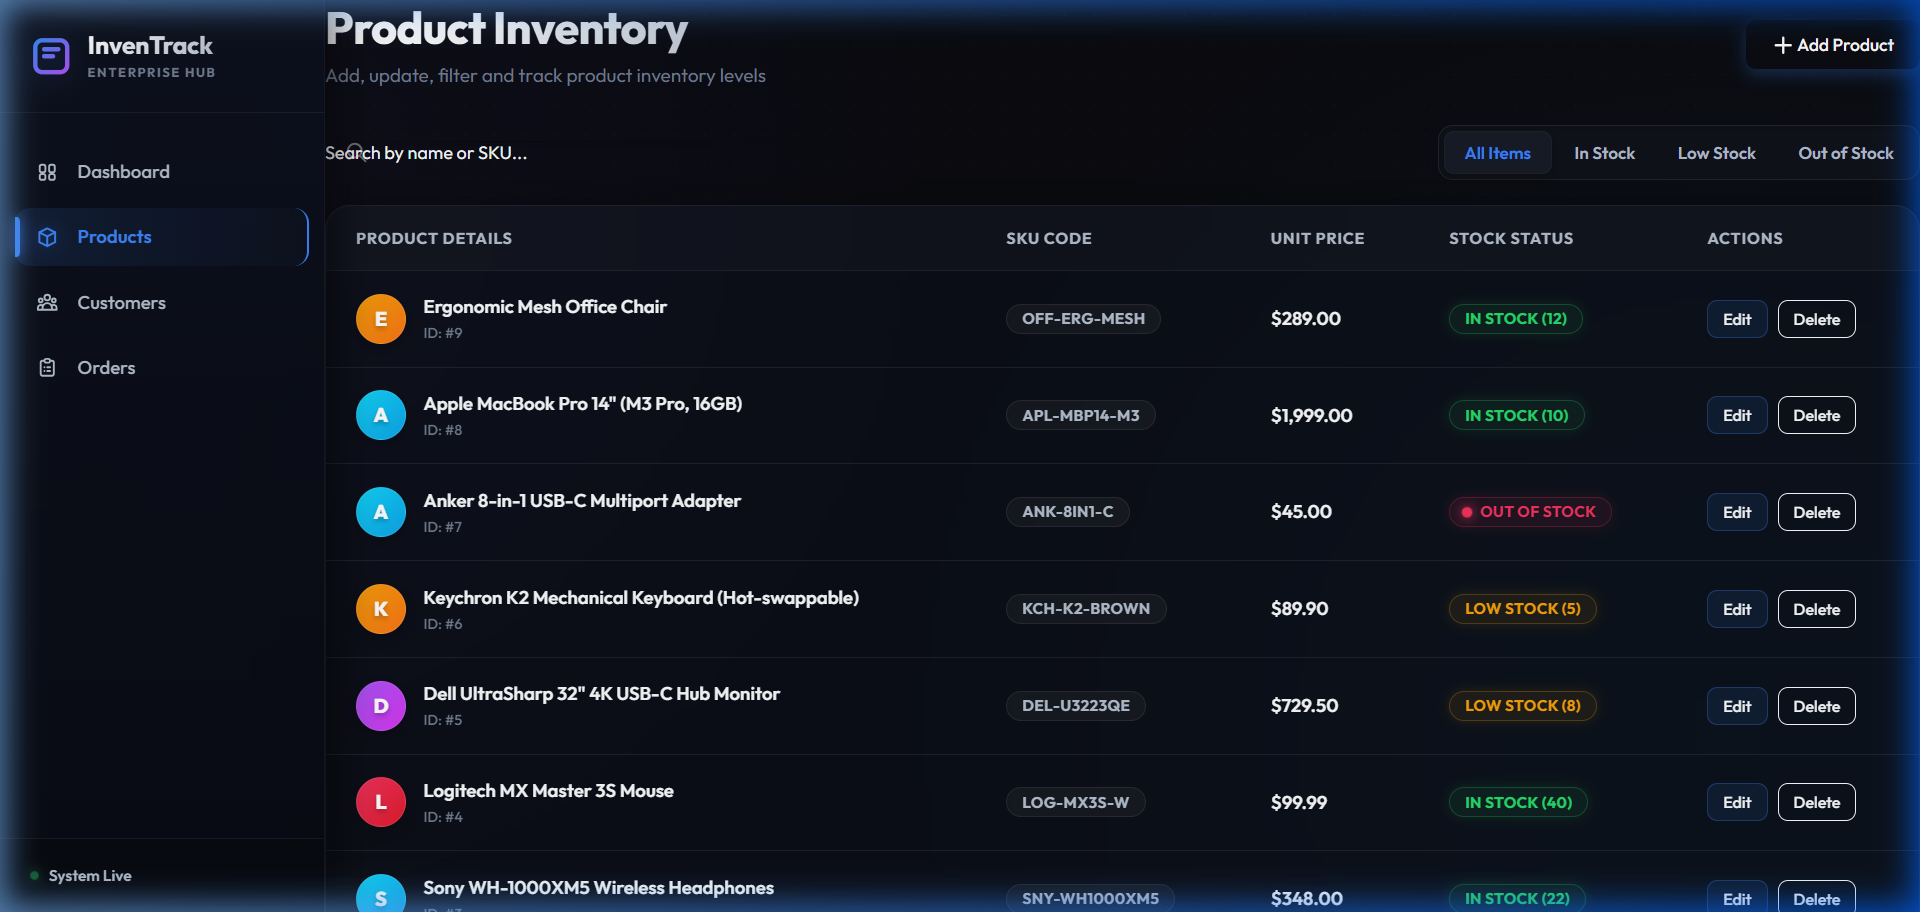
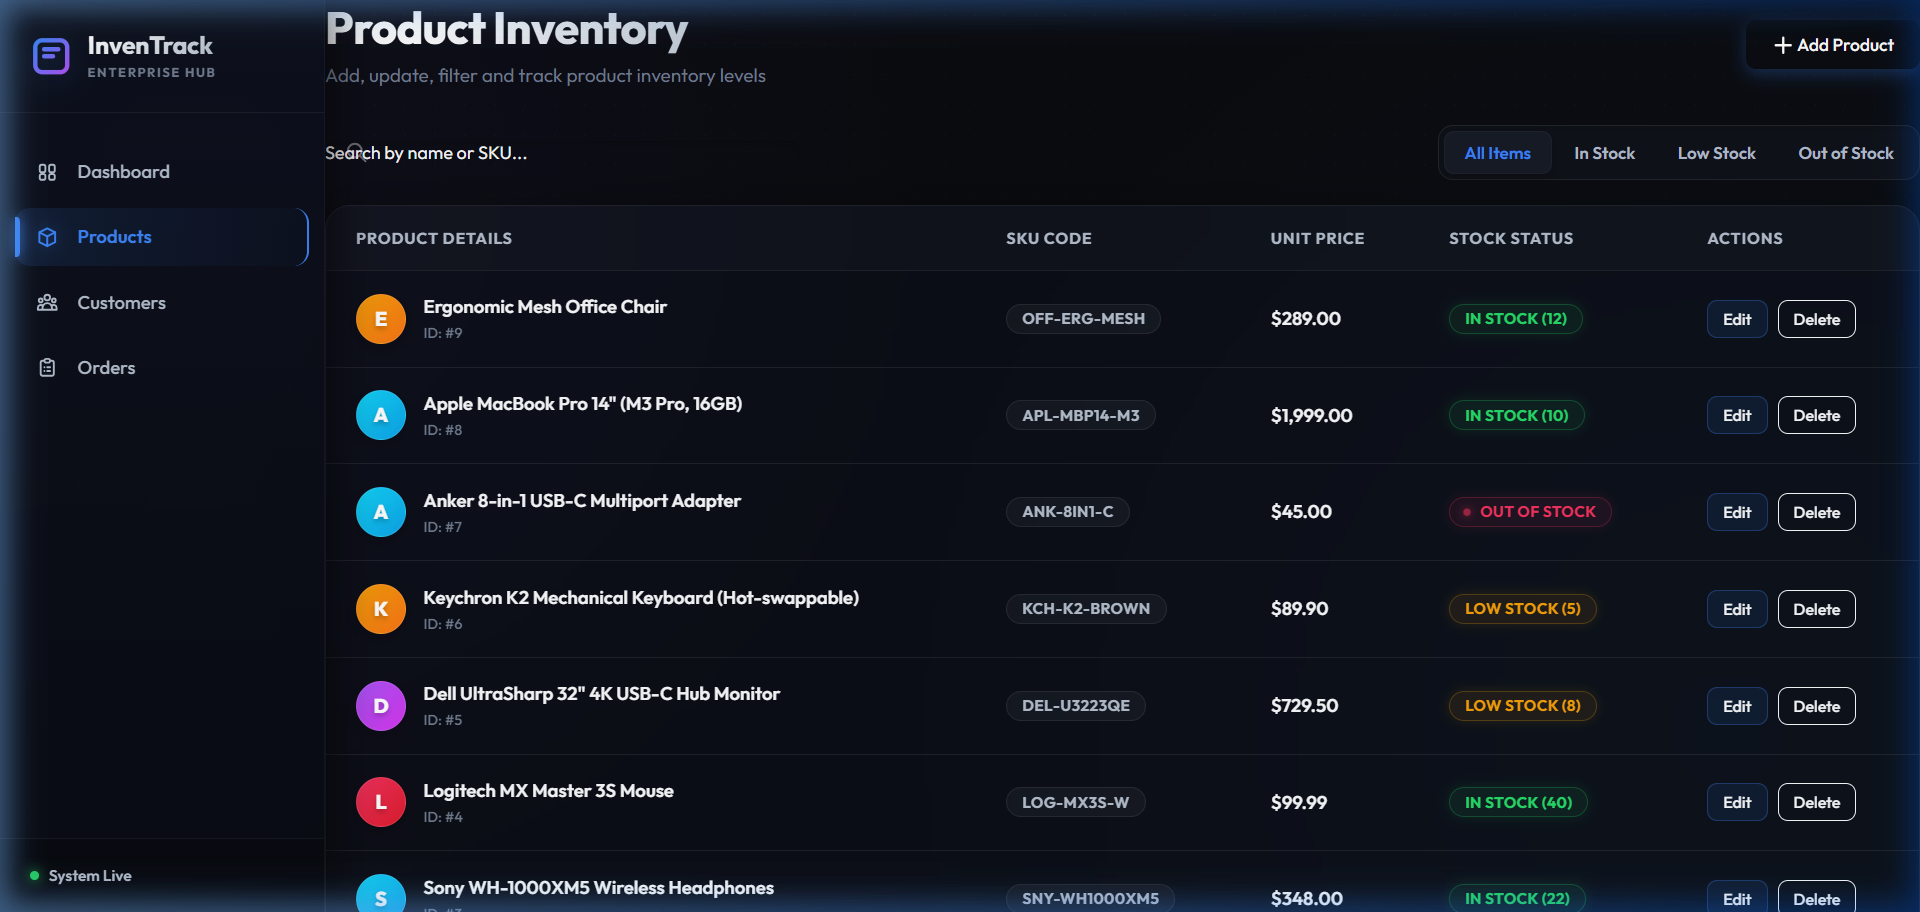
docs: add Dashboard, Products, Customers, and Orders screenshots to README.md

Changed region(s): [[0.4062, 0.0, 1.0, 1.0]]

diff --git a/README.md b/README.md
@@ -14,6 +14,12 @@ A full-stack, enterprise-grade inventory and order management system. Built with
 ### 📦 Products Inventory Management
 ![Products Screenshot](screenshots/products.png)
 
+### 👥 Customers Directory
+![Customers Screenshot](screenshots/customers.png)
+
+### 🛒 Point of Sale & Orders
+![Orders Screenshot](screenshots/orders.png)
+
 ---
 
 ## 🚀 Key Features